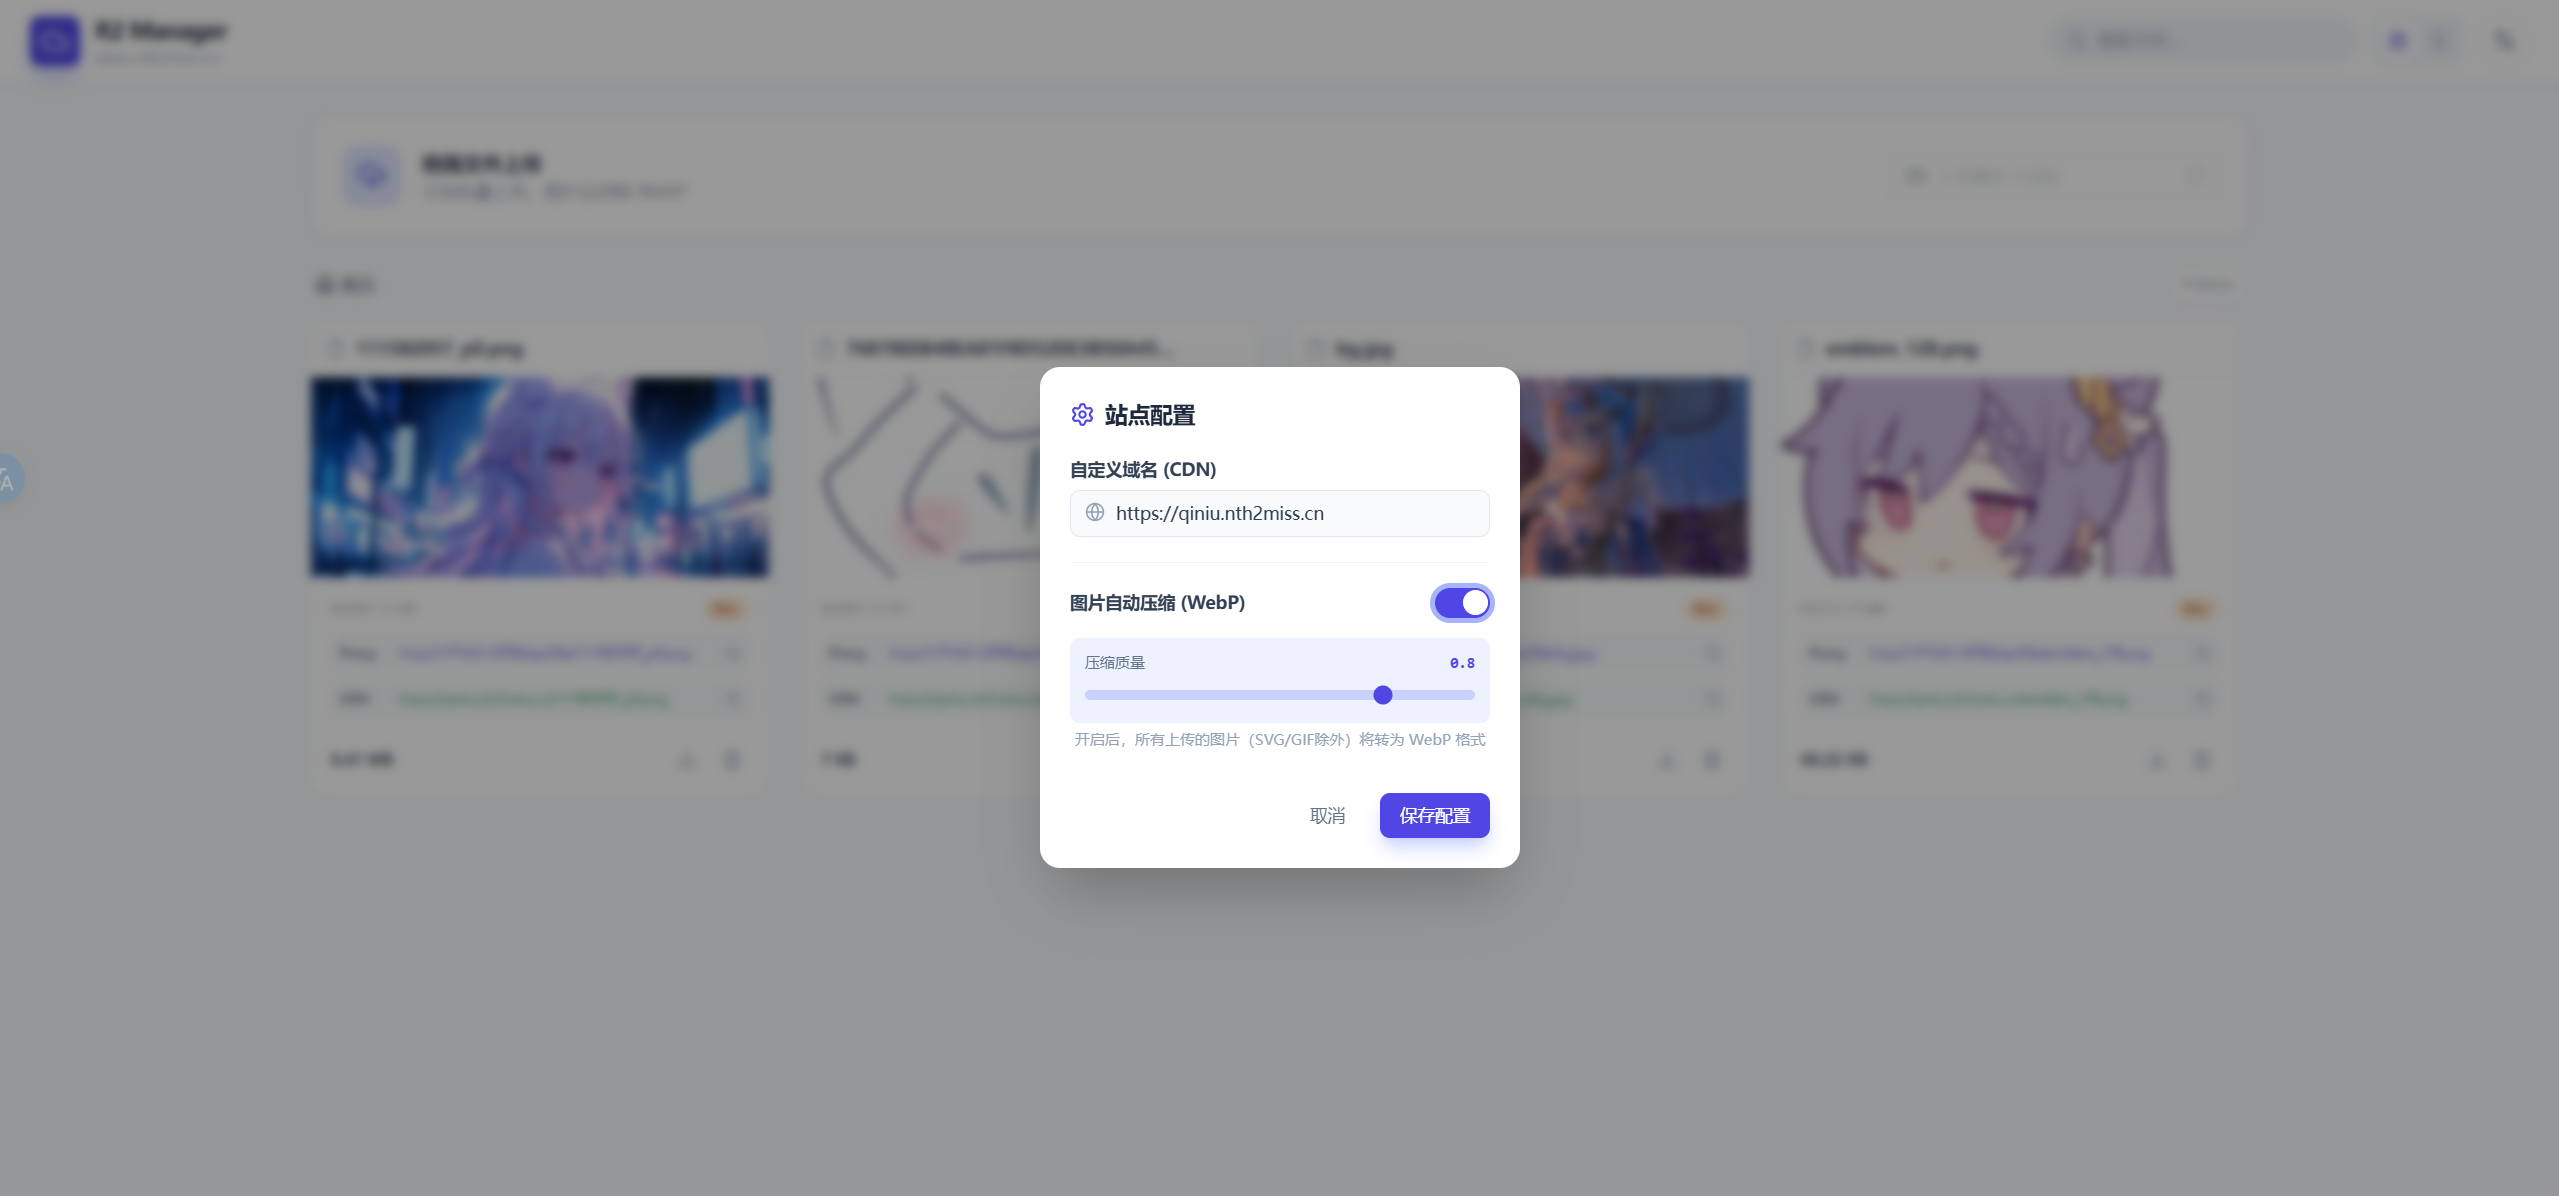
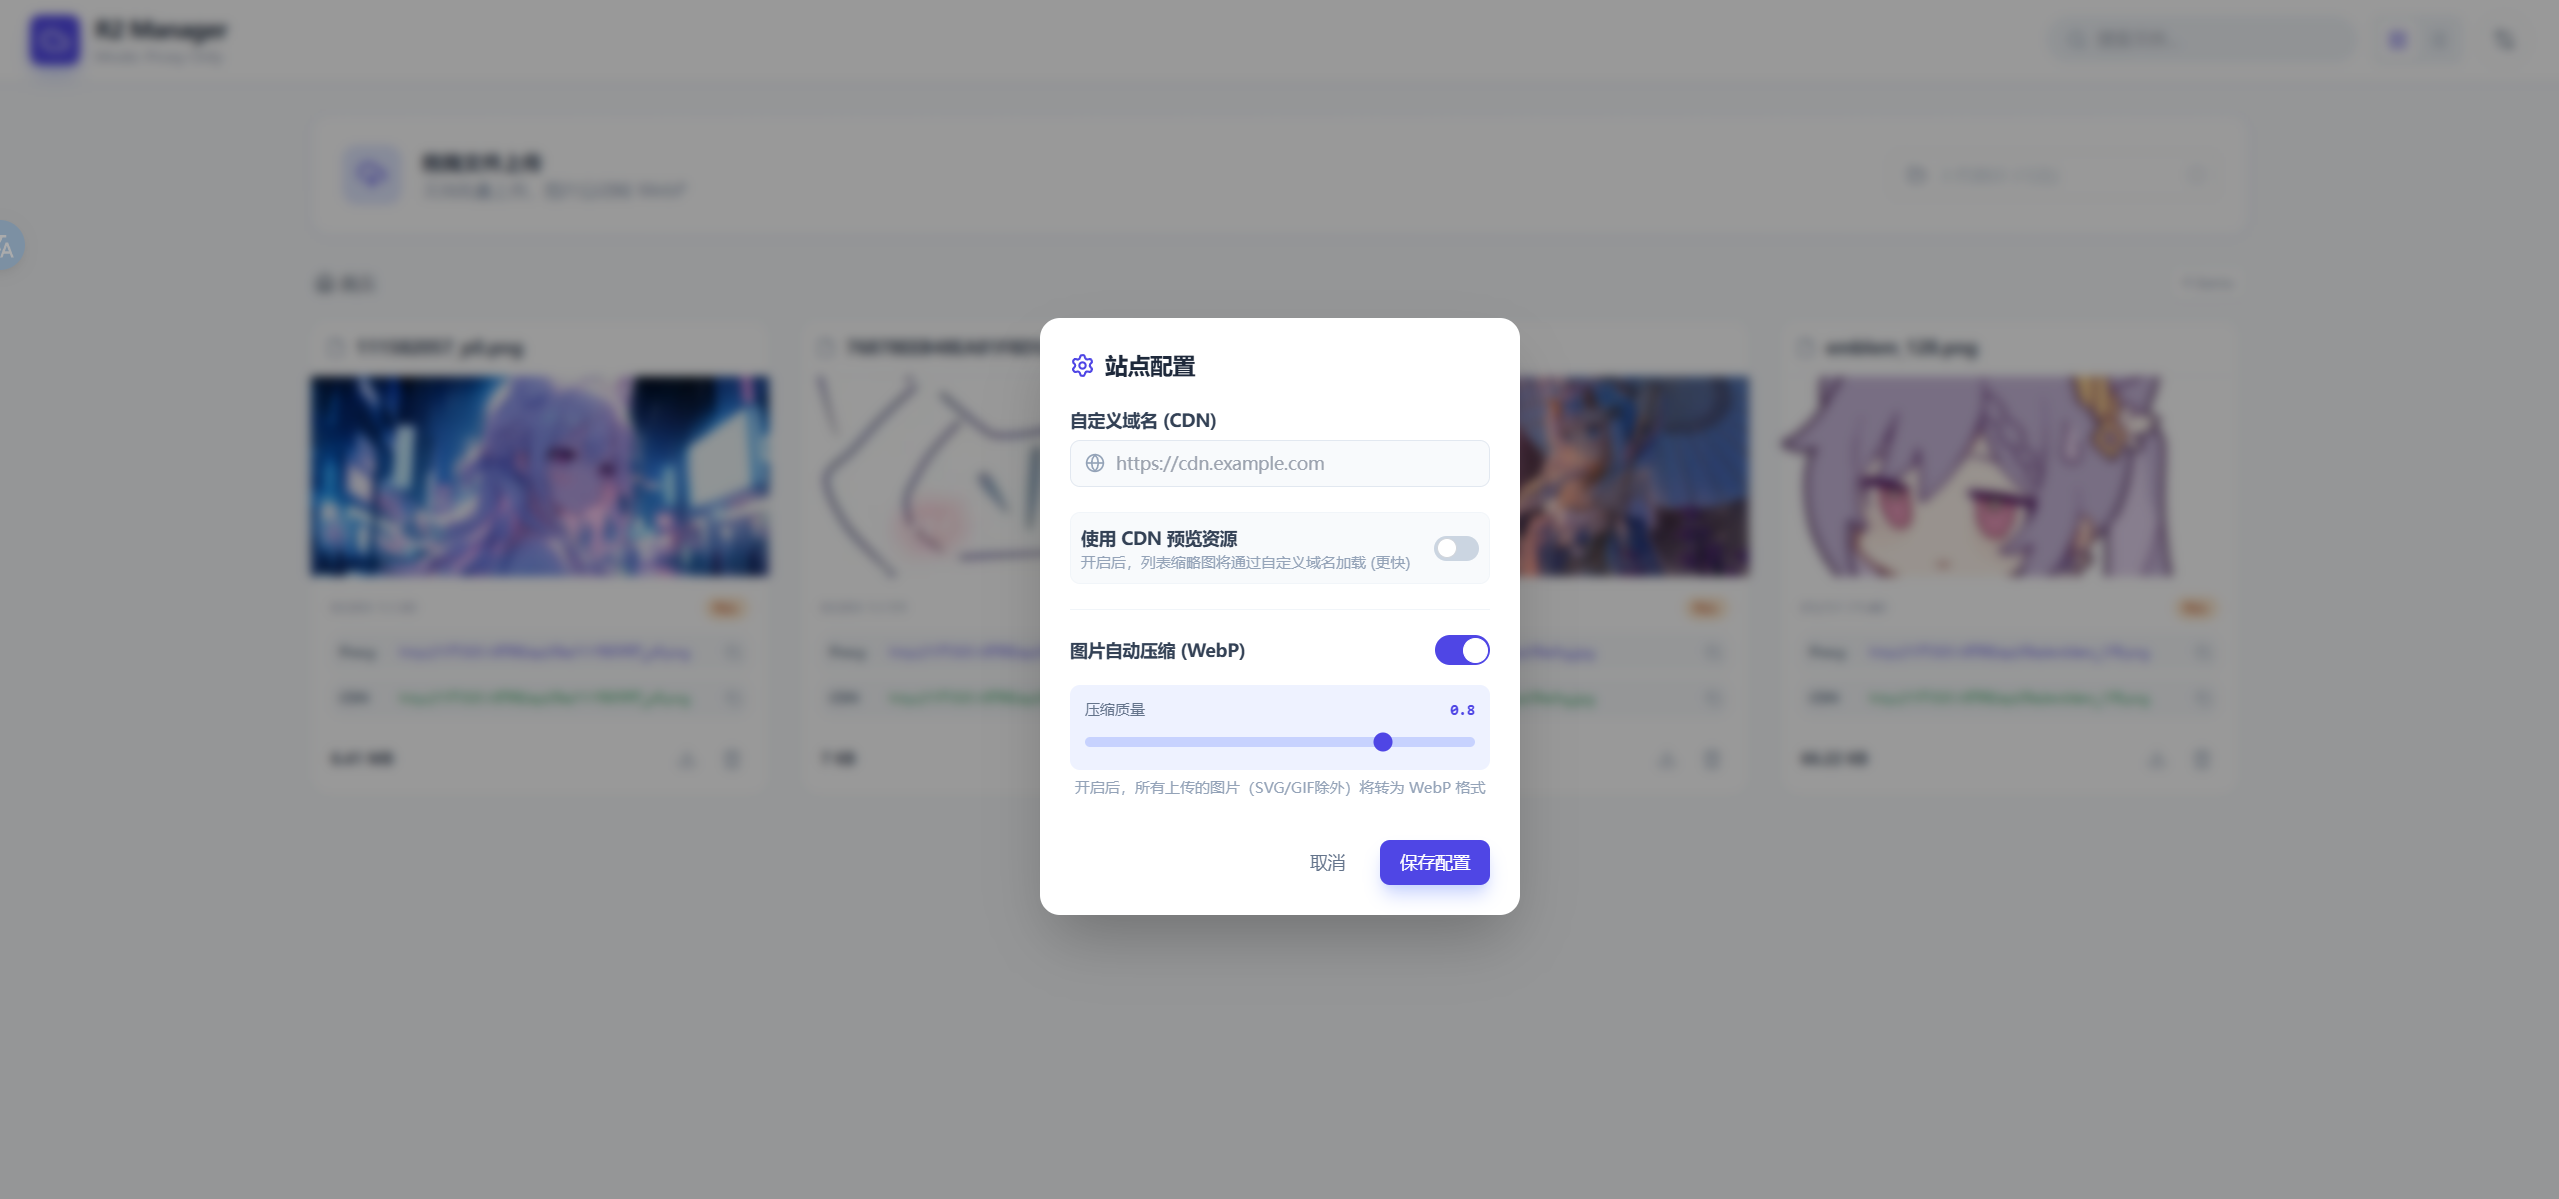
update

Changed region(s): [[0.4013, 0.2475, 0.6174, 0.7734], [0.0, 0.3712, 0.0309, 0.4331], [0.0, 0.1856, 0.0309, 0.2166]]

diff --git a/public/index.html b/public/index.html
@@ -4,6 +4,7 @@
     <meta charset="UTF-8">
     <meta name="viewport" content="width=device-width, initial-scale=1.0">
     <title>R2 资源管理器</title>
+    <link rel="icon" type="image/svg+xml" href="/icon.png">
     <script src="https://cdn.tailwindcss.com"></script>
     <script src="https://unpkg.com/lucide@latest"></script>
     <script src="https://cdnjs.cloudflare.com/ajax/libs/dayjs/1.11.10/dayjs.min.js"></script>

diff --git a/README.md b/README.md
@@ -30,6 +30,7 @@
   * **前端自动压缩**：上传时可自动将图片转换为 WebP 格式。
   * **节省带宽**：支持设置压缩质量开关，极大节省存储费用。
 * **🎥 媒体预览**：
+  * **CDN预览**：缩略图将通过自定义域名加载，更快的预览图片。
   * **视频**：支持 mp4/mov/mkv 等格式在线播放 (强制 Inline 模式)。
   * **音频**：支持 mp3/wav 等格式在线试听。
   * **图片**：支持缩略图预览。
